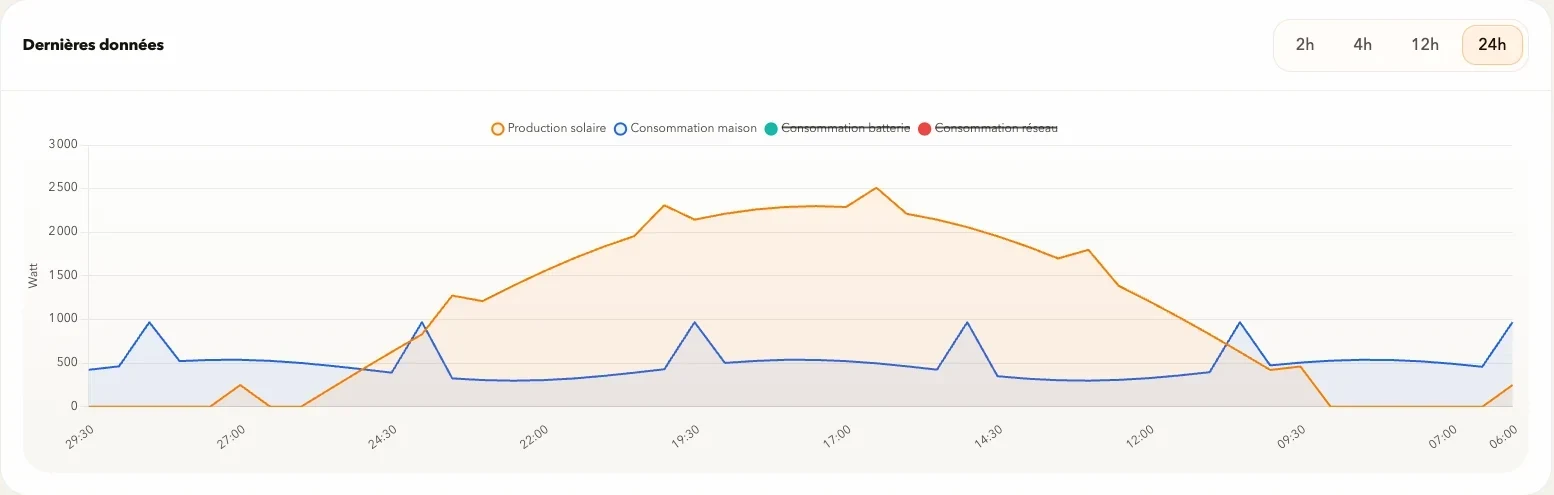
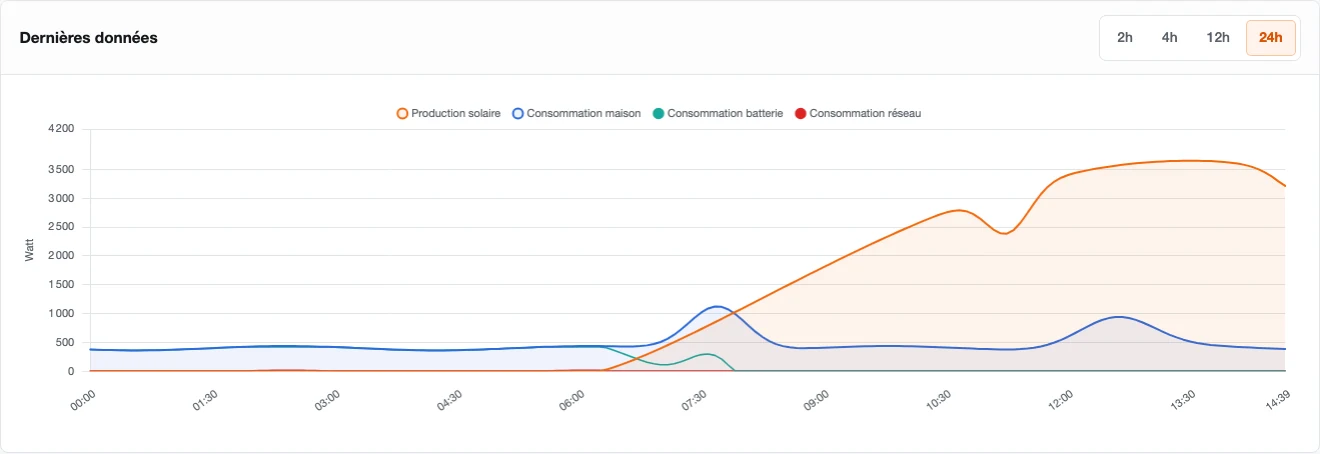
Actualise la documentation et les captures

diff --git a/README.md b/README.md
@@ -5,52 +5,60 @@
 **Tableau de bord et enregistreur local pour Phocos Any-Grid sur Raspberry Pi.**
 
 [![Raspberry Pi](https://img.shields.io/badge/Raspberry_Pi-Compatible-C51A4A?style=for-the-badge&logo=raspberry-pi&logoColor=white)](https://www.raspberrypi.org/)
-[![Accessibilite](https://img.shields.io/badge/Accessibilite-WCAG_2.1_AA-4CAF50?style=for-the-badge&logo=w3c&logoColor=white)](https://www.w3.org/WAI/)
+[![Accessibilité](https://img.shields.io/badge/Accessibilit%C3%A9-WCAG_2.1_AA-4CAF50?style=for-the-badge&logo=w3c&logoColor=white)](https://www.w3.org/WAI/)
 [![Licence MIT](https://img.shields.io/badge/Licence-MIT-yellow.svg?style=for-the-badge)](https://opensource.org/licenses/MIT)
 
 <br>
 
-<img src="doc/phocos-dashboard.webp" alt="Vue du tableau de bord PiPhocos" width="90%">
+<img src="doc/phocos-dashboard.webp" alt="Vue du tableau de bord PiPhocos avec des données de démonstration" width="90%">
 
 <br>
 
-PiPhocos collecte localement les donnees d'un onduleur Phocos Any-Grid,
-calcule les kWh produits, consommes, charges ou injectes, puis les expose dans
-une application web locale. La priorite est la regularite de l'acquisition et
-la precision energetique; l'interface peut volontairement se rafraichir moins
+PiPhocos collecte localement les données d'un onduleur Phocos Any-Grid,
+calcule les kWh produits, consommés, chargés ou injectés, puis les expose dans
+une application web locale. La priorité est la régularité de l'acquisition et
+la précision énergétique ; l'interface peut volontairement se rafraîchir moins
 souvent que le collecteur.
 
 </div>
 
 ---
 
-## Fonctionnalites
+## Fonctionnalités
 
 - **Acquisition locale** : communication USB/RS232 avec le Phocos, sans cloud.
-- **Priorite kWh** : boucle rapide centree sur les puissances utiles aux calculs.
-- **Historique energetique** : production, consommation, batterie, import/export.
-- **Qualite des intervalles** : distinction entre donnees exactes, derivees,
-  cachees, integrees avec gap ou ignorees.
-- **Exports CSV** : recuperation des donnees pour analyse externe.
-- **PWA locale** : tableau de bord utilisable depuis ordinateur ou mobile.
+- **Flux énergétique en direct** : solaire, maison, batterie et réseau avec sens
+  des échanges et puissances instantanées.
+- **Courbes interactives** : vue glissante sur 2 h, 4 h, 12 h ou 24 h avec
+  séries activables séparément.
+- **Historique énergétique** : bilans par jour, mois, année et depuis l'origine,
+  avec production, consommation, autonomie, facture et économies estimées.
+- **Priorité kWh** : boucle rapide centrée sur les puissances utiles aux calculs.
+- **Qualité des intervalles** : distinction entre données exactes, dérivées,
+  cachées, intégrées avec gap ou ignorées.
+- **Interface responsive et accessible** : tableau de bord en français, adapté
+  à l'ordinateur, à la tablette et au mobile, avec état de la dernière mesure.
+- **Exports CSV** : récupération des données pour analyse externe.
+- **PWA locale** : installation possible depuis un navigateur compatible.
 
 ---
 
 ## Captures
 
-Les captures ci-dessous utilisent des donnees synthetiques et ne representent
-pas une installation reelle.
+Toutes les valeurs visibles ci-dessous sont générées localement à partir d'un
+scénario solaire fictif. Elles ne proviennent d'aucune installation réelle et
+ne contiennent ni identifiant matériel ni donnée privée.
 
 <div align="center">
   <table style="border-collapse: collapse; border: none;">
     <tr style="border: none;">
       <td width="50%" align="center" style="border: none;">
-        <img src="doc/phocos-chart.webp" alt="Courbe live PiPhocos" width="100%">
-        <br><i>Courbes de puissance</i>
+        <img src="doc/phocos-chart.webp" alt="Courbe de puissance PiPhocos avec des données de démonstration" width="100%">
+        <br><i>Courbes de puissance sur 24 heures</i>
       </td>
       <td width="50%" align="center" style="border: none;">
-        <img src="doc/phocos-daily.webp" alt="Vue journaliere PiPhocos" width="100%">
-        <br><i>Donnees journalieres</i>
+        <img src="doc/phocos-daily.webp" alt="Bilan journalier PiPhocos avec des données de démonstration" width="100%">
+        <br><i>Bilan énergétique journalier</i>
       </td>
     </tr>
   </table>
@@ -60,11 +68,11 @@ pas une installation reelle.
 
 ## Installation rapide
 
-Pre-requis :
+Prérequis :
 
-- un **Raspberry Pi** avec Docker et Docker Compose;
-- l'adaptateur **USB / RS232 Phocos** connecte au Pi;
-- un acces terminal au Raspberry Pi.
+- un **Raspberry Pi** avec Docker et Docker Compose ;
+- l'adaptateur **USB / RS232 Phocos** connecté au Pi ;
+- un accès terminal au Raspberry Pi.
 
 ### 1. Identifier l'adaptateur
 
@@ -72,7 +80,7 @@ Pre-requis :
 ls -l /dev/serial/by-id/
 ```
 
-### 2. Preparer la configuration
+### 2. Préparer la configuration
 
 ```bash
 git clone <url-du-depot-git>
@@ -89,25 +97,25 @@ Modifier `data/config.yml`, notamment :
 - `prices.price_per_grid_kwh`
 - `prices.revenue_per_fed_in_kwh`
 - `prices.zen_weekend` si votre contrat distingue les heures semaine et les
-  heures week-end/jours feries.
+  heures week-end/jours fériés.
 - `prices.standard` si vous voulez simuler le Tarif Bleu option Base.
 - `privacy.expose_device_identifiers` uniquement si vous acceptez d'afficher
-  les identifiants materiels dans l'API et l'interface.
+  les identifiants matériels dans l'API et l'interface.
 - `database.store_sample_raw_snapshot_json` doit rester `false` sauf diagnostic
-  local ponctuel; les colonnes structurees suffisent au calcul kWh.
+  local ponctuel ; les colonnes structurées suffisent au calcul kWh.
 - `database.raw_history_retention_hours` et
   `database.energy_interval_retention_days` pilotent la compression des points
-  bruts et des intervalles kWh detailles.
+  bruts et des intervalles kWh détaillés.
 
-### 3. Demarrer
+### 3. Démarrer
 
 ```bash
 export PIPHOCOS_SERIAL_PORT=/dev/serial/by-id/votre-adaptateur
 docker compose up --build -d piphocos
 ```
 
-Par defaut, le service HTTP est publie sur `localhost` uniquement. Pour une
-exposition sur un reseau local de confiance :
+Par défaut, le service HTTP est publié sur `localhost` uniquement. Pour une
+exposition sur un réseau local de confiance :
 
 ```bash
 export PIPHOCOS_HTTP_BIND=<ip-lan-du-raspberry-pi>
@@ -116,43 +124,43 @@ docker compose up --build -d piphocos
 
 ### 4. Ouvrir le tableau de bord
 
-- `http://localhost:5000` par defaut;
-- `http://<ip-du-raspberry-pi>:5000` si `PIPHOCOS_HTTP_BIND` pointe vers l'IP LAN;
-- une route locale ou reverse proxy prive peut aussi exposer un nom local choisi
+- `http://localhost:5000` par défaut ;
+- `http://<ip-du-raspberry-pi>:5000` si `PIPHOCOS_HTTP_BIND` pointe vers l'IP LAN ;
+- une route locale ou un reverse proxy privé peut aussi exposer un nom local choisi
   par l'administrateur.
 
-PiPhocos n'integre pas d'authentification. Ne pas l'exposer directement sur
-Internet; utiliser un LAN de confiance, un VPN ou un proxy prive authentifie.
+PiPhocos n'intègre pas d'authentification. Ne pas l'exposer directement sur
+Internet ; utiliser un LAN de confiance, un VPN ou un proxy privé authentifié.
 
 ---
 
-## Precision et performance
+## Précision et performance
 
 PiPhocos se concentre sur les mesures qui changent tout le temps : watts maison,
-production solaire, charge/decharge batterie et import/export reseau. Les
+production solaire, charge/décharge batterie et import/export réseau. Les
 commandes Phocos secondaires sont lues plus lentement pour ne pas ralentir la
 boucle d'acquisition.
 
-L'interface peut se rafraichir moins vite que le collecteur. C'est volontaire :
-la priorite est d'enregistrer les watts a une cadence stable pour reduire
-l'ecart kWh avec les compteurs ou factures.
+L'interface peut se rafraîchir moins vite que le collecteur. C'est volontaire :
+la priorité est d'enregistrer les watts à une cadence stable pour réduire
+l'écart kWh avec les compteurs ou factures.
 
-Sur l'installation locale validee, le reglage retenu est `QPGS0` toutes les
+Sur l'installation locale validée, le réglage retenu est `QPGS0` toutes les
 1 seconde et `QPIGS` toutes les 30 secondes. La cadence 0,5 seconde reste un
-stress test : elle provoque trop de retards sur le lien serie 2400 bauds.
+stress test : elle provoque trop de retards sur le lien série 2400 bauds.
 
-Le stockage est compresse par niveaux : points bruts recents pour le live,
-buckets 10 minutes pour les graphes longs, intervalles kWh detailles pour le
-recalcul recent, puis rollups journaliers/mensuels/annuels conserves durablement.
-Les intervalles anciens ne sont purges qu'apres creation des resumes energie et
-qualite, afin que les rapprochements facture restent disponibles.
+Le stockage est compressé par niveaux : points bruts récents pour le direct,
+buckets de 10 minutes pour les graphes longs, intervalles kWh détaillés pour le
+recalcul récent, puis résumés journaliers, mensuels et annuels conservés durablement.
+Les intervalles anciens ne sont purgés qu'après création des résumés d'énergie et
+de qualité, afin que les rapprochements avec les factures restent disponibles.
 
 Documentation technique :
 
 - [Performance d'acquisition](docs/performance-acquisition.md)
-- [Precision energetique et reconciliation kWh](docs/energy-accuracy.md)
+- [Précision énergétique et réconciliation kWh](docs/energy-accuracy.md)
 - [Tarifs, factures et API compteur](docs/tarifs-facturation-api.md)
-- [Compression et retention des donnees](docs/storage-compression.md)
+- [Compression et rétention des données](docs/storage-compression.md)
 - [Plan de test performance](docs/operations/performance-test-plan.md)
 
 ---
@@ -161,28 +169,28 @@ Documentation technique :
 
 - [Guide Raspberry Pi](doc/install_raspberrypi.md)
 - [Guide Synology NAS](doc/install_synology.md)
-- [Modele de configuration](templates/config.yml)
+- [Modèle de configuration](templates/config.yml)
 - [Rapport performance acquisition](scripts/acquisition_report.py)
 - [Benchmark stockage local](scripts/storage_benchmark.py)
 - [Rapport compression SQLite](scripts/compression_report.py)
-- [Purge controlee intervalles kWh](scripts/prune_energy_intervals.py)
-- [Benchmark serie Phocos](scripts/phocos_serial_benchmark.py)
-- [Reconstruction resumes qualite](scripts/rebuild_quality_summaries.py)
+- [Purge contrôlée des intervalles kWh](scripts/prune_energy_intervals.py)
+- [Benchmark série Phocos](scripts/phocos_serial_benchmark.py)
+- [Reconstruction des résumés de qualité](scripts/rebuild_quality_summaries.py)
 - [Scan anonymisation](scripts/privacy_scan.py)
 - [Scan langue publique](scripts/public_language_scan.py)
-- Documentation protocole : utiliser la documentation officielle Phocos adaptee
-  a votre modele d'onduleur.
+- Documentation protocole : utiliser la documentation officielle Phocos adaptée
+  à votre modèle d'onduleur.
 
 ---
 
-## Credits
+## Crédits
 
 Ce projet descend du projet **Sunalyzer** de **Boris Brock (VanKurt)**. La base
-initiale a ete adaptee, reduite et optimisee pour un usage Phocos Any-Grid local
+initiale a été adaptée, réduite et optimisée pour un usage Phocos Any-Grid local
 sur Raspberry Pi.
 
 ---
 
 <div align="center">
-  Publie sous <a href="LICENSE">licence MIT</a>
+  Publié sous <a href="LICENSE">licence MIT</a>
 </div>
